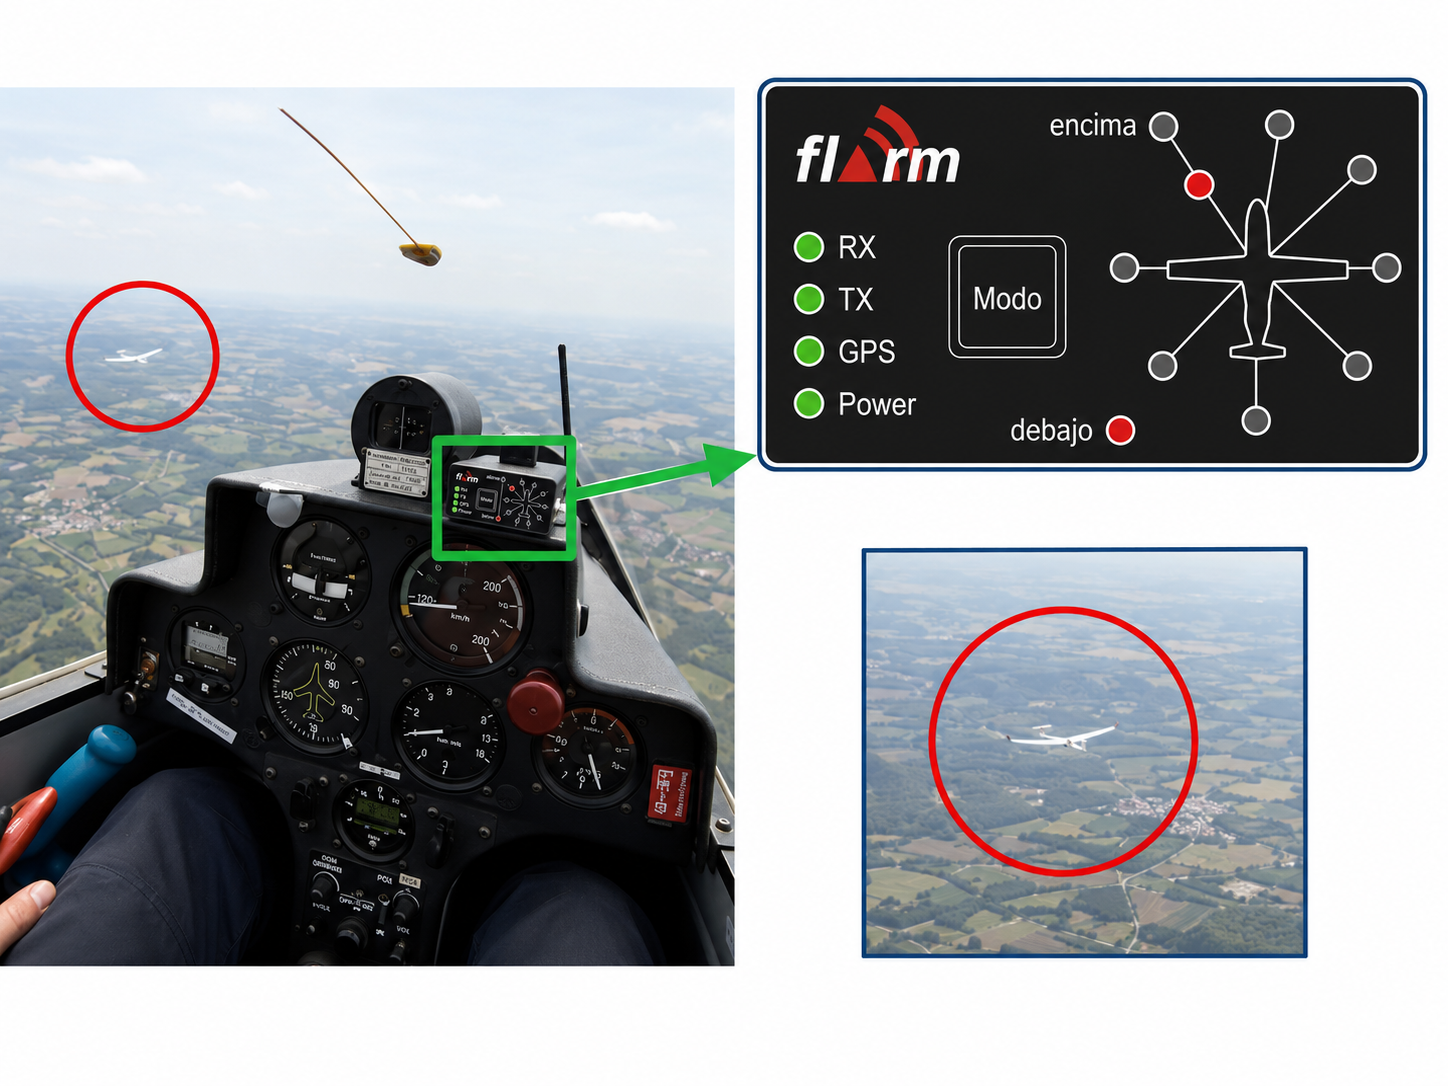
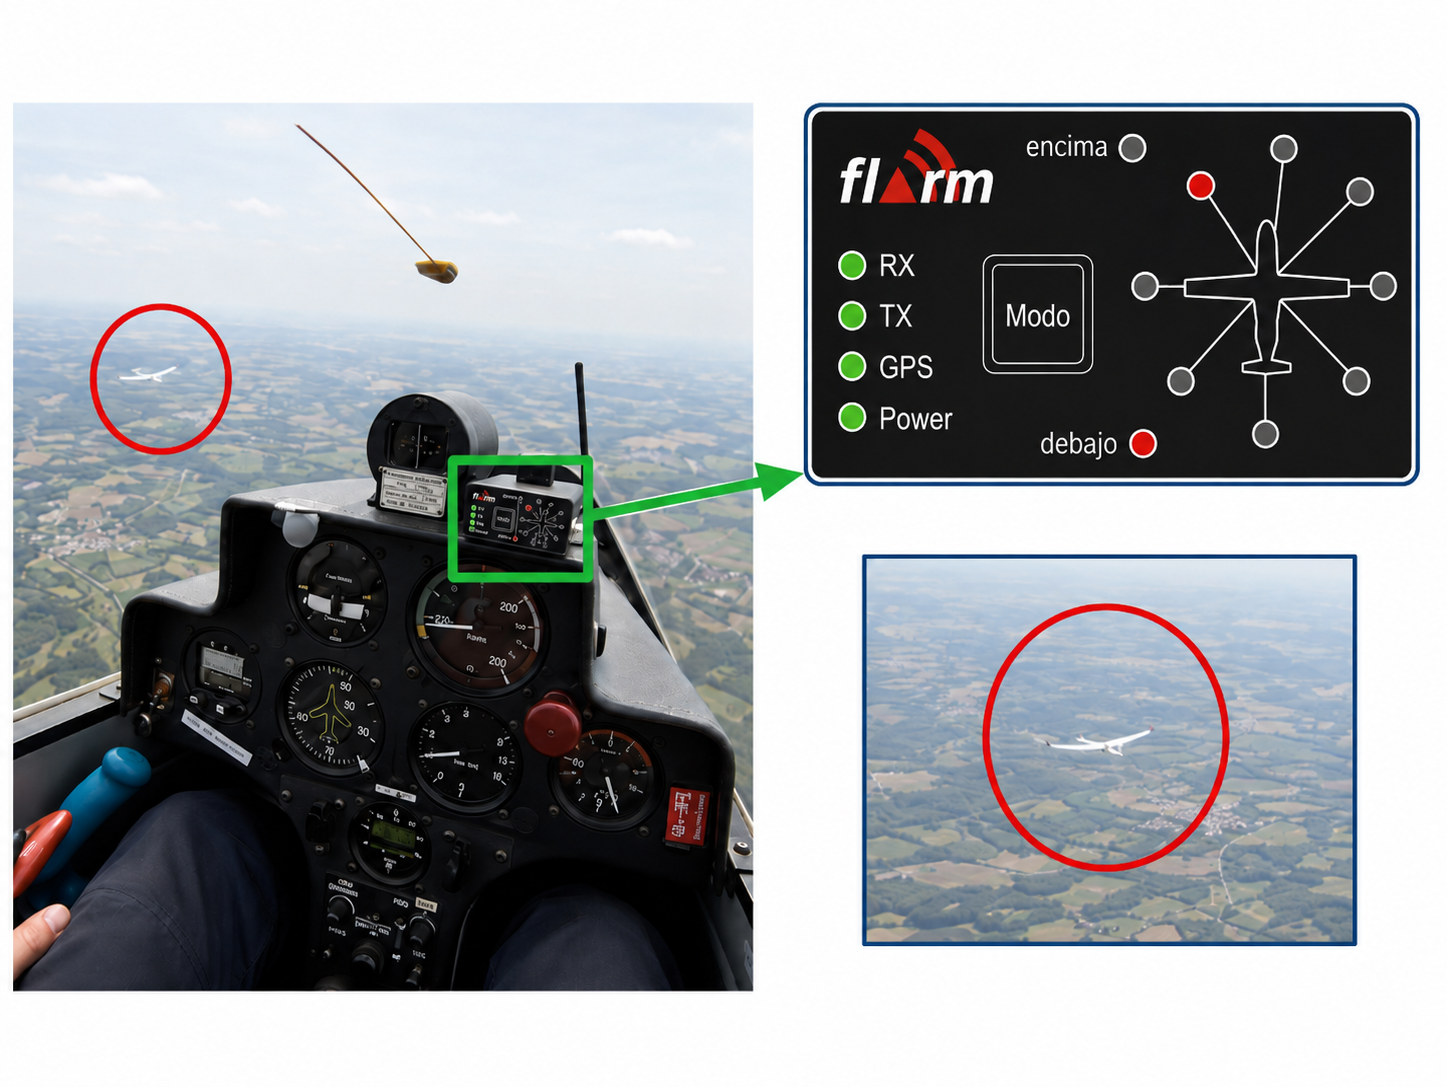
fix(08): la figura del FLARM no contradice a su pie
En el panel de la unidad, el rótulo «encima» quedaba pegado al círculo de
las once del anillo de direcciones, así que el LED rojo parecía el suyo.
El pie dice que el tráfico está ABAJO a las once, de modo que la figura
desmentía al texto justo en lo que venía a explicar: cómo se lee la
dirección y la altura relativa del otro planeador.

Ahora «encima» lleva su propio testigo, apagado y separado del anillo, y
sólo quedan encendidos el rojo de «debajo» y el de la posición de las
once.

Reeditada por Ramón. Afecta al PDF, al EPUB y al paquete web —del que
salen las ocho variantes AVIF/WebP—; el Markdown para RAG y el mazo Anki
no llevan imágenes.

diff --git a/08-aeronave-sistemas/CHANGELOG-08.md b/08-aeronave-sistemas/CHANGELOG-08.md
@@ -16,7 +16,7 @@ rompe la compilación.
 
 ## [En curso]
 
-**Qué releer:** **cap06, arcos de colores del anemómetro; cap07 y cap11, ubicación de dos figuras; cap08 y cap09, la sigla del certificado de aeronavegabilidad; cap13, primer párrafo.** En cap06 se añade el arco blanco, que faltaba. En cap07 la figura de los conectores pasa junto al tipo manual que ilustra, con su referencia `@fig` y un pie que ya no compara los dos tipos. En cap11 se adelanta a la descripción del sistema. En cap13 se matiza que «la mayoría» de los paracaídas de planeador son de apertura manual.
+**Qué releer:** **cap06, arcos de colores del anemómetro y figura del FLARM; cap07 y cap11, ubicación de dos figuras; cap08 y cap09, la sigla del certificado de aeronavegabilidad; cap13, primer párrafo.** En cap06 se añade el arco blanco, que faltaba. En cap07 la figura de los conectores pasa junto al tipo manual que ilustra, con su referencia `@fig` y un pie que ya no compara los dos tipos. En cap11 se adelanta a la descripción del sistema. En cap13 se matiza que «la mayoría» de los paracaídas de planeador son de apertura manual.
 
 ### Añadido
 
@@ -24,6 +24,7 @@ rompe la compilación.
 
 ### Corregido
 
+* **cap06, figura de la unidad FLARM** (`#fig-08-cap06-4-2-ver-y-evitar`) — el rótulo «encima» quedaba pegado al círculo de las once del anillo de direcciones, de modo que el LED rojo parecía ser el suyo. El pie dice que el tráfico está **abajo** a las once, así que la figura contradecía al texto justo en lo que venía a explicar. Ahora «encima» lleva su propio testigo, apagado, separado del anillo.
 * **cap08 y cap09, sigla del certificado de aeronavegabilidad** — cuatro apariciones de `CoA` pasan a `CofA`, la forma que la 0.9.1 ya fijó en el glosario y que usa el libro 01. Una de ellas era el **título** del apartado de cap09 («El CofA y el ARC: la "ITV" del cielo»), que se contradecía con el párrafo de cierre del propio apartado y con el post-it, escritos ya en la forma nueva.
 
 ### Maqueta y producción
